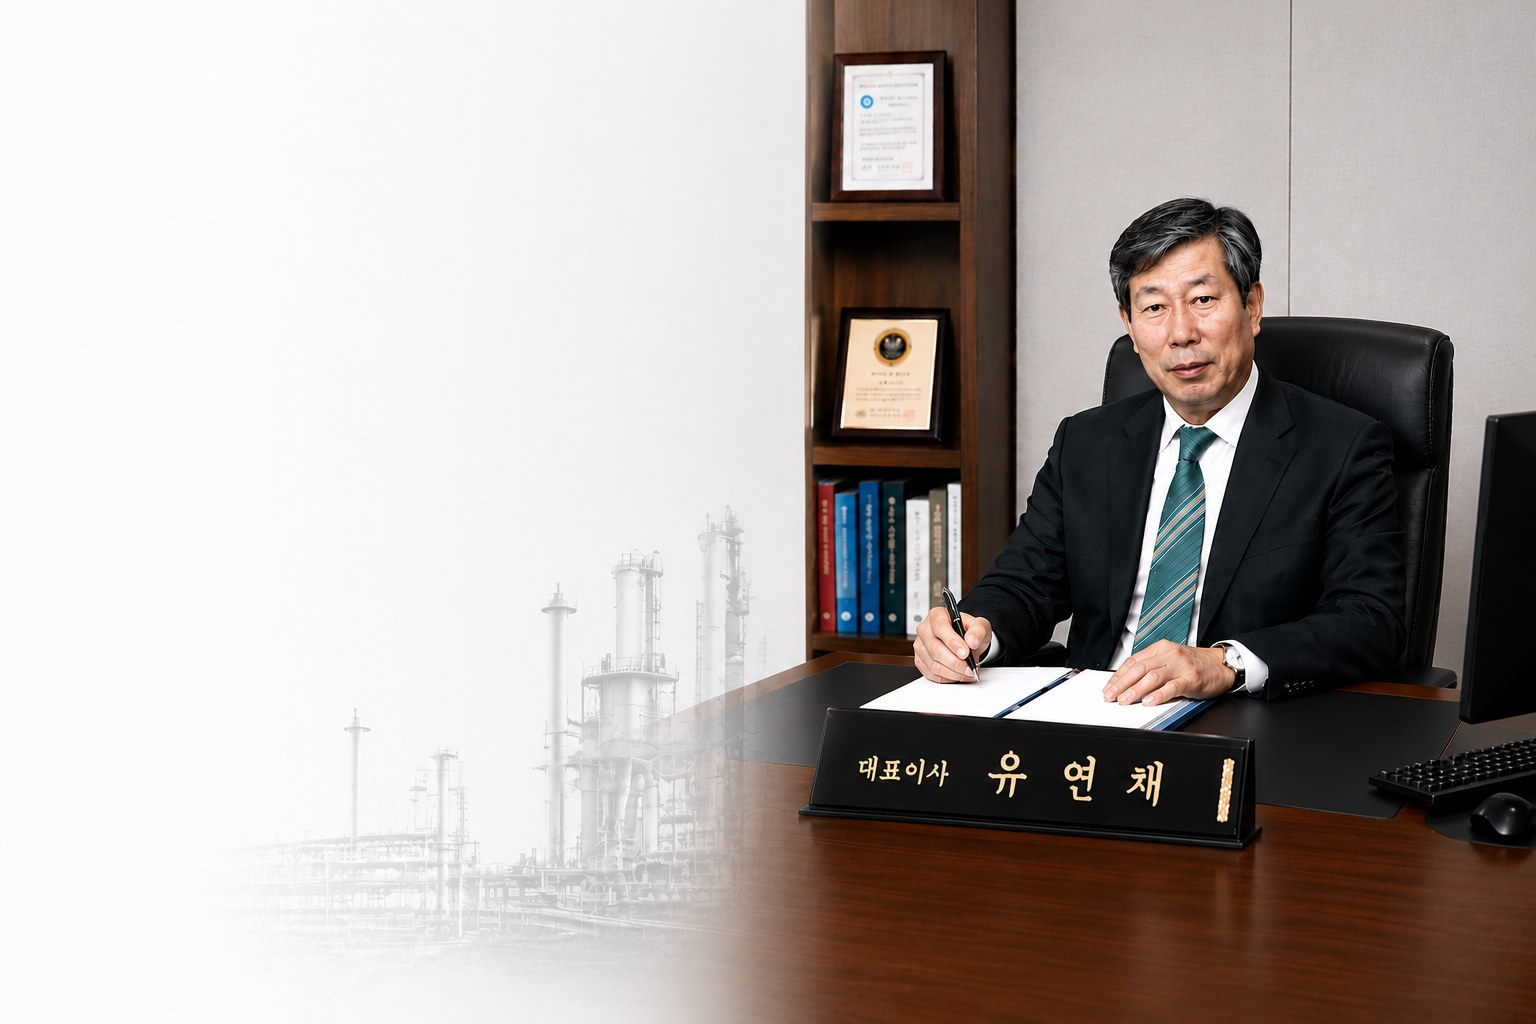
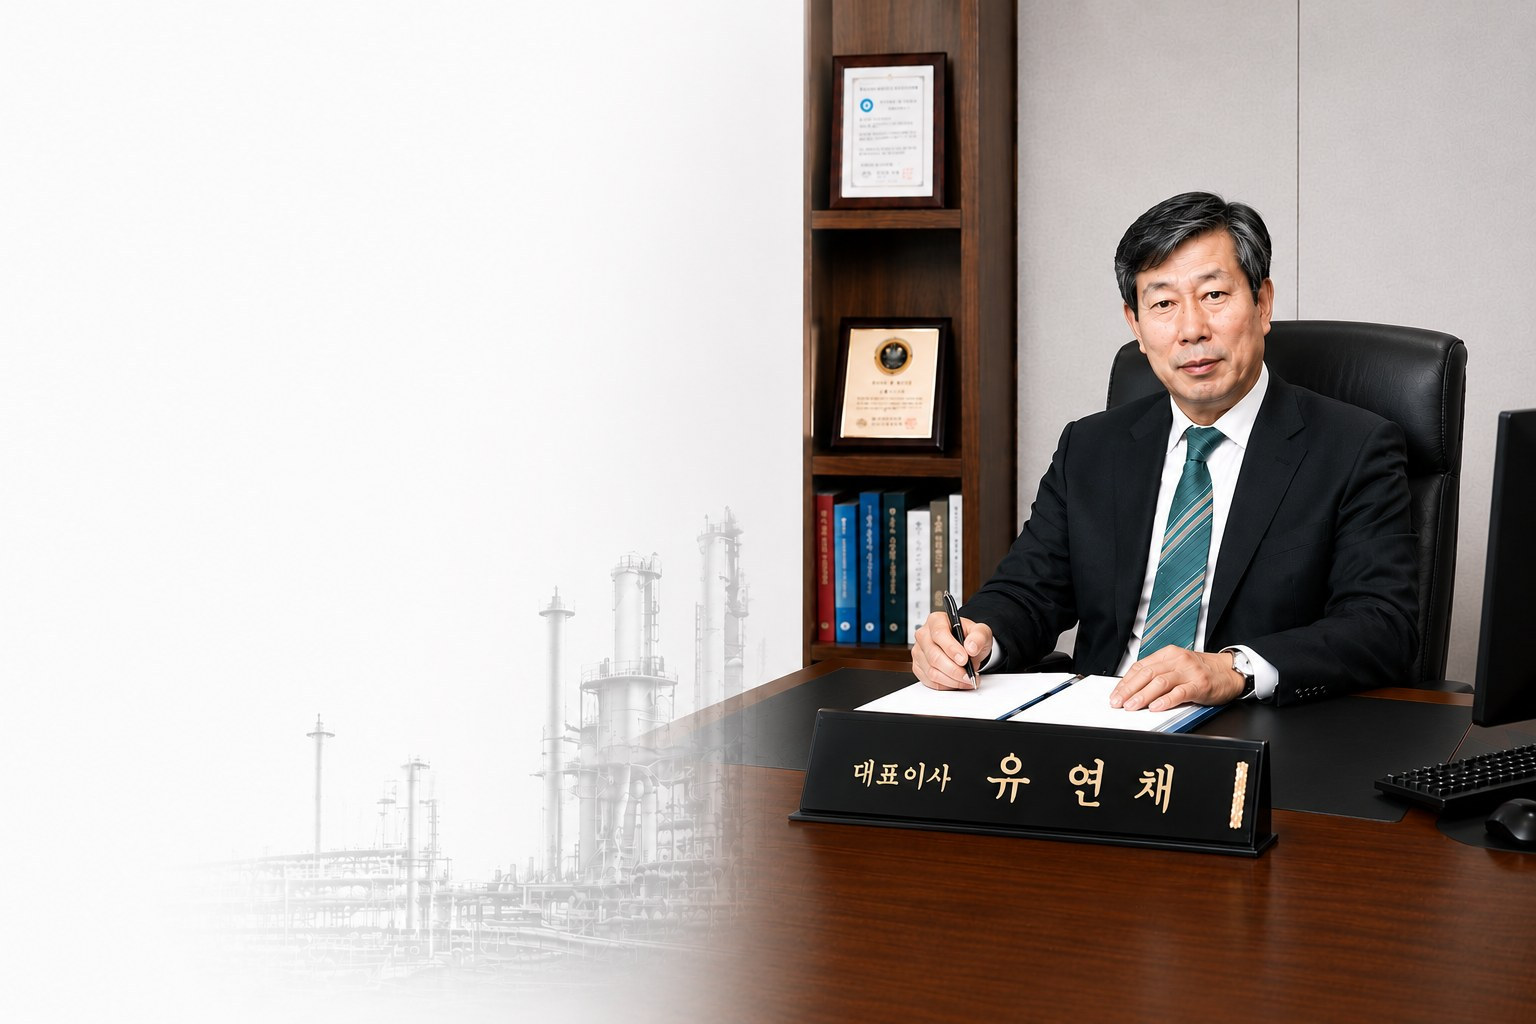
CEO 인사말: (1) 대표사진 새 컷 교체(ceo-message-bg.jpg?v=20260731-10) (2) 대표이사 서명을 손글씨 폰트→실제 서명 이미지(ceo-sign.png, 배경 투명)로 교체, ko 번역·translations.js 캐시버전 ?v=20260731-10

diff --git a/company.html b/company.html
@@ -127,7 +127,7 @@
     <section class="section" id="greeting">
       <div class="container">
        <div class="cmsg">
-        <img class="cmsg__bg" src="assets/images/site/ceo-message-bg.jpg?v=20260731-9" alt="한국탄산화학㈜ 대표이사 유연채">
+        <img class="cmsg__bg" src="assets/images/site/ceo-message-bg.jpg?v=20260731-10" alt="한국탄산화학㈜ 대표이사 유연채">
         <div class="cmsg__body">
           <span class="eyebrow" data-i18n="company.greeting.eyebrow">CEO Message</span>
           <h2 class="section__title" data-i18n-html="company.greeting.title">신뢰와 기술로<br>가스 산업의 미래를 만듭니다</h2>
@@ -135,7 +135,7 @@
           <p class="greeting__p" data-i18n-html="company.greeting.p2">고순도 제조 역량과 안정적인 공급망, 신속한 전문 서비스를 바탕으로<br>식음료·제약·산업 전반의 신뢰받는 파트너가 되겠습니다.</p>
           <p class="greeting__p" data-i18n-html="company.greeting.p3">앞으로도 안전(Safety), 품질(Quality), 신뢰(Trust)를 핵심 가치로 삼아<br>지속적인 기술혁신과 품질 향상을 실현하고, 고객의 성장과 산업 발전에<br>기여하는 기업이 되겠습니다.</p>
           <p class="greeting__p" data-i18n-html="company.greeting.p4">변함없는 관심과 성원에 깊이 감사드리며,<br>앞으로도 고객과 함께 더 큰 미래를 만들어 나가겠습니다.</p>
-          <p class="greeting__sign" data-i18n-html="company.greeting.sign">한국탄산화학㈜ 대표이사 <span class="sign-name">유연채</span></p>
+          <p class="greeting__sign" data-i18n-html="company.greeting.sign">한국탄산화학㈜ 대표이사 <img class="sign-img" src="assets/images/site/ceo-sign.png?v=1" alt="유연채"></p>
         </div>
        </div>
       </div>
@@ -256,7 +256,7 @@
     <span class="scroll-fab__text">SCROLL</span>
   </a>
 
-  <script src="assets/i18n/translations.js?v=20260731-9"></script>
+  <script src="assets/i18n/translations.js?v=20260731-10"></script>
   <script src="assets/js/i18n.js"></script>
   <script src="assets/js/main.js"></script>
 </body>

diff --git a/assets/i18n/translations.js b/assets/i18n/translations.js
@@ -218,7 +218,7 @@ window.I18N = {
     "company.greeting.p2": "고순도 제조 역량과 안정적인 공급망, 신속한 전문 서비스를 바탕으로<br>식음료·제약·산업 전반의 신뢰받는 파트너가 되겠습니다.",
     "company.greeting.p3": "앞으로도 안전(Safety), 품질(Quality), 신뢰(Trust)를 핵심 가치로 삼아<br>지속적인 기술혁신과 품질 향상을 실현하고, 고객의 성장과 산업 발전에<br>기여하는 기업이 되겠습니다.",
     "company.greeting.p4": "변함없는 관심과 성원에 깊이 감사드리며,<br>앞으로도 고객과 함께 더 큰 미래를 만들어 나가겠습니다.",
-    "company.greeting.sign": "한국탄산화학㈜ 대표이사 <span class=\"sign-name\">유연채</span>",
+    "company.greeting.sign": "한국탄산화학㈜ 대표이사 <img class=\"sign-img\" src=\"assets/images/site/ceo-sign.png?v=1\" alt=\"유연채\">",
     "company.greeting.quote": "최고의 품질과 안전으로 고객의 가치를 높이는 한국탄산화학㈜가 되겠습니다.",
     "company.val.safety": "안전경영",
     "company.val.quality": "품질경영",

diff --git a/company-overview.html b/company-overview.html
@@ -230,7 +230,7 @@
     <span class="scroll-fab__text">SCROLL</span>
   </a>
 
-  <script src="assets/i18n/translations.js?v=20260731-9"></script>
+  <script src="assets/i18n/translations.js?v=20260731-10"></script>
   <script src="assets/js/i18n.js"></script>
   <script src="assets/js/main.js"></script>
 </body>

diff --git a/index.html b/index.html
@@ -233,7 +233,7 @@
     <span class="scroll-fab__text">SCROLL</span>
   </a>
 
-  <script src="assets/i18n/translations.js?v=20260731-9"></script>
+  <script src="assets/i18n/translations.js?v=20260731-10"></script>
   <script src="assets/js/i18n.js"></script>
   <script src="assets/js/main.js"></script>
 </body>

diff --git a/products-construction.html b/products-construction.html
@@ -180,7 +180,7 @@
     <span class="scroll-fab__text">SCROLL</span>
   </a>
 
-  <script src="assets/i18n/translations.js?v=20260731-9"></script>
+  <script src="assets/i18n/translations.js?v=20260731-10"></script>
   <script src="assets/js/i18n.js"></script>
   <script src="assets/js/main.js"></script>
 </body>

diff --git a/products-gas.html b/products-gas.html
@@ -351,7 +351,7 @@
     <span class="scroll-fab__text">SCROLL</span>
   </a>
 
-  <script src="assets/i18n/translations.js?v=20260731-9"></script>
+  <script src="assets/i18n/translations.js?v=20260731-10"></script>
   <script src="assets/js/i18n.js"></script>
   <script src="assets/js/main.js"></script>
 </body>

diff --git a/products-ice.html b/products-ice.html
@@ -297,7 +297,7 @@
     <span class="scroll-fab__text">SCROLL</span>
   </a>
 
-  <script src="assets/i18n/translations.js?v=20260731-9"></script>
+  <script src="assets/i18n/translations.js?v=20260731-10"></script>
   <script src="assets/js/i18n.js"></script>
   <script src="assets/js/main.js"></script>
 </body>

diff --git a/products-supply.html b/products-supply.html
@@ -176,7 +176,7 @@
     <span class="scroll-fab__text">SCROLL</span>
   </a>
 
-  <script src="assets/i18n/translations.js?v=20260731-9"></script>
+  <script src="assets/i18n/translations.js?v=20260731-10"></script>
   <script src="assets/js/i18n.js"></script>
   <script src="assets/js/main.js"></script>
 </body>

diff --git a/quality.html b/quality.html
@@ -216,7 +216,7 @@
     <span class="scroll-fab__text">SCROLL</span>
   </a>
 
-  <script src="assets/i18n/translations.js?v=20260731-9"></script>
+  <script src="assets/i18n/translations.js?v=20260731-10"></script>
   <script src="assets/js/i18n.js"></script>
   <script src="assets/js/main.js"></script>
 </body>

diff --git a/support.html b/support.html
@@ -191,7 +191,7 @@
     <span class="scroll-fab__text">SCROLL</span>
   </a>
 
-  <script src="assets/i18n/translations.js?v=20260731-9"></script>
+  <script src="assets/i18n/translations.js?v=20260731-10"></script>
   <script src="assets/js/i18n.js"></script>
   <script src="assets/js/main.js"></script>
 </body>

diff --git a/company-network.html b/company-network.html
@@ -261,7 +261,7 @@
     <span class="scroll-fab__text">SCROLL</span>
   </a>
 
-  <script src="assets/i18n/translations.js?v=20260731-9"></script>
+  <script src="assets/i18n/translations.js?v=20260731-10"></script>
   <script src="assets/js/i18n.js"></script>
   <script src="assets/js/main.js"></script>
 
